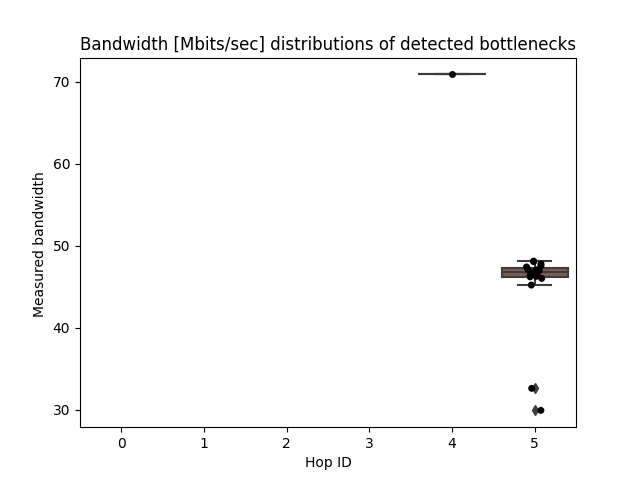
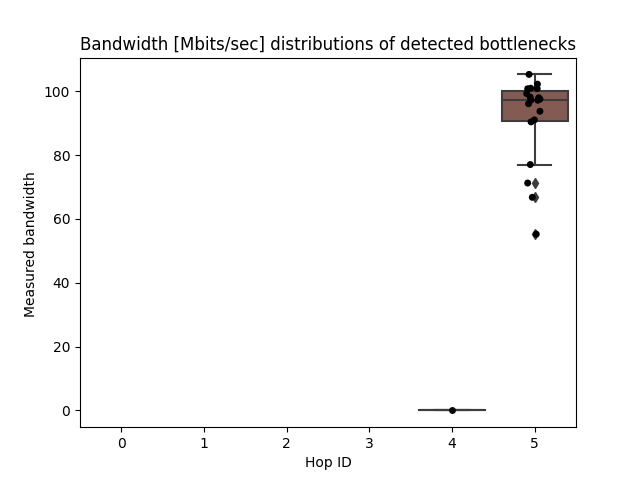
100mb & r5-r6 as bottleneck. previous links 250mb

diff --git a/src/topology_config.py b/src/topology_config.py
@@ -16,11 +16,11 @@ nodes = {"c1": ("10.0.1.2", "c1-r1"),
 Links Format:
 [(endpoint_name1, ip1, (endpoint_name2, ip2)), (bandwidth[Mbit/s], burst[kb], latency[ms])), ...]
 """
-links = [(("c1", "10.0.1.2"), ("r1", "10.0.1.4"), (200, 12500, 1)),
-         (("r2", "10.0.2.2"), ("r3", "10.0.2.4"), (200, 12500, 1)),
-         (("r4", "10.0.3.2"), ("r5", "10.0.3.4"), (200, 12500, 1)),
-         (("r6", "10.0.4.2"), ("s1", "10.0.4.4"), (200, 12500, 1)),
-         (("c2", "10.0.5.2"), ("r5", "10.0.5.4"), (200, 12500, 1)),
-         (("r1", "10.0.6.2"), ("r2", "10.0.6.4"), (200, 12500, 1)),
-         (("r3", "10.0.7.2"), ("r4", "10.0.7.4"), (200, 12500, 1)),
-         (("r5", "10.0.8.2"), ("r6", "10.0.8.4"), (50, 12500, 1))]
+links = [(("c1", "10.0.1.2"), ("r1", "10.0.1.4"), (100, 12500, 1)),
+         (("r2", "10.0.2.2"), ("r3", "10.0.2.4"), (100, 12500, 1)),
+         (("r4", "10.0.3.2"), ("r5", "10.0.3.4"), (100, 12500, 1)),
+         (("r6", "10.0.4.2"), ("s1", "10.0.4.4"), (100, 12500, 1)),
+         (("c2", "10.0.5.2"), ("r5", "10.0.5.4"), (100, 12500, 1)),
+         (("r1", "10.0.6.2"), ("r2", "10.0.6.4"), (100, 12500, 1)),
+         (("r3", "10.0.7.2"), ("r4", "10.0.7.4"), (100, 12500, 1)),
+         (("r5", "10.0.8.2"), ("r6", "10.0.8.4"), (100, 12500, 1))]

diff --git a/src/experiment.py b/src/experiment.py
@@ -11,18 +11,18 @@ n_iter = 20
 bottleneck_bandwidth = []
 data = {'00': [], '01': [], '02': [], '03': [], '04': [], '05': []}
 
-bottleneck_link_dest = {'name': 'r3', 'ip': '10.0.3.3'}
+bottleneck_link_dest = {'name': 'r6', 'ip': '10.0.8.4'}
 server = {'name': 's1', 'ip': '10.0.4.4'}
 contesting_client = 'c2'
 client = 'c1'
 
 # setup iperf server on bottleneck link destination
 os.system(f"docker exec {server['name']} iperf -s &")
-# os.system(f"docker exec {bottleneck_link_dest['name']} iperf -s &")
+os.system(f"docker exec {bottleneck_link_dest['name']} iperf -s &")
 
 # generate background traffic from c2 to r3 (through r2)
 os.system(f"docker exec {client} iperf -t 0 -c {server['ip']} &")
-# os.system(f"docker exec {contesting_client} iperf -t 0 -c {bottleneck_link_dest['ip']} &")
+os.system(f"docker exec {contesting_client} iperf -t 0 -c {bottleneck_link_dest['ip']} &")
 
 
 for i in range(n_iter):
